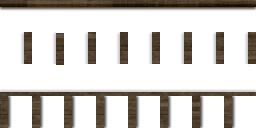
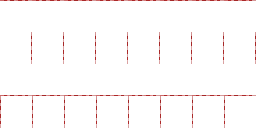
new graphics

diff --git a/README.md b/README.md
@@ -6,10 +6,7 @@ A mod for Factorio which adds a new "Deconstructive Tile".
 - ghost build: mark all entitiey on it's position for deconstruction (tldr: the ghost deletes itself)
 
 # Credit
-This mod was written with heavy inspiration from Dectorio's source code, which was a great help for figuring out 
-what I had to do without spending houers digging through documentation. Currently the mod also uses it's 
-wood boards texture for the tiles, this will change in the futuer.
-
+This mod was written with heavy inspiration from Dectorio's source code, which was a great help for figuring out what I had to do without spending houers digging through documentation.
 Dectorio: https://github.com/jpanther/dectorio
 
 # Known Issues:
